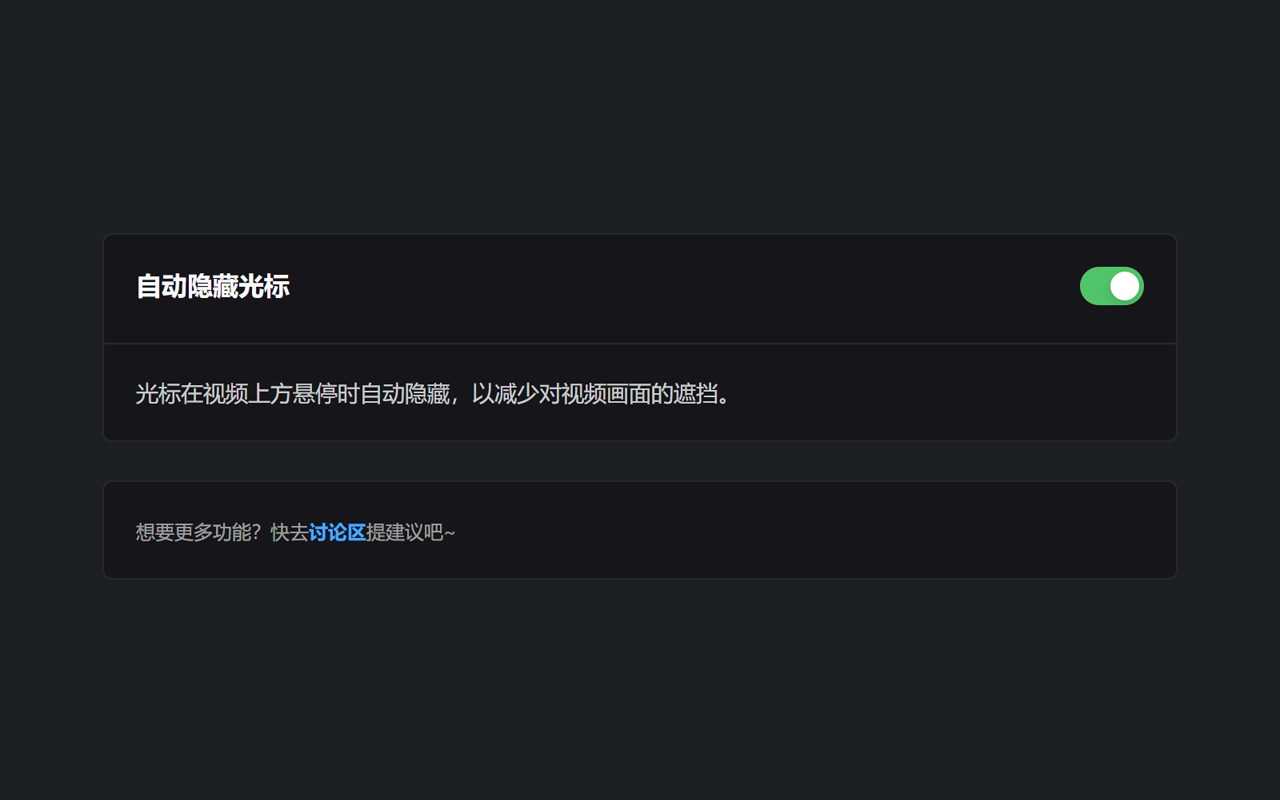
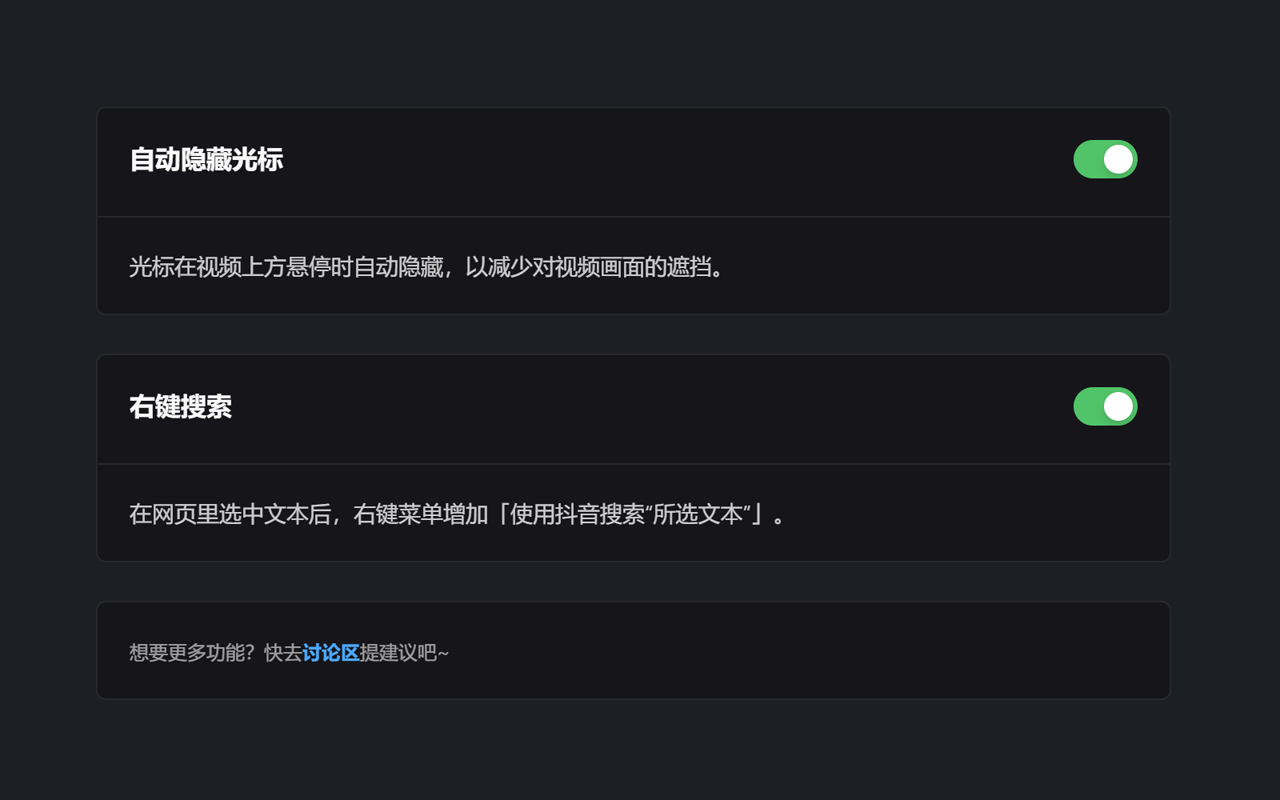
feat: 支持右键搜索

diff --git a/src/base/functions/searchSelection.ts b/src/base/functions/searchSelection.ts
@@ -1,0 +1,73 @@
+import storage from '../storage';
+import config from '../config';
+
+const KEY_ENABLED = 'func:searchSelection:enabled';
+const KEY_OPTIONS = 'func:searchSelection:options';
+
+const MENU_ITEM_ID = 'search';
+
+const BASE_URL = 'https://www.douyin.com/search/';
+
+export async function isEnabled() {
+  return (await storage.get(KEY_ENABLED)) ?? true;
+};
+
+export async function updateStatus(enabled: boolean) {
+  await storage.set(KEY_ENABLED, enabled);
+  await updateContextMenu();
+};
+
+export async function updateContextMenu() {
+  const item: chrome.contextMenus.CreateProperties = {
+    id: MENU_ITEM_ID,
+    title: '使用抖音搜索“%s”',
+    contexts: ['selection'],
+    
+  };
+  chrome.contextMenus?.removeAll?.();
+  if (await isEnabled()) {
+    chrome.contextMenus?.create?.(item);
+  }
+}
+
+export async function onSearchMenuItemClicked(info: chrome.contextMenus.OnClickData) {
+  if (info.menuItemId !== MENU_ITEM_ID) {
+    return;
+  }
+  const query = (info.selectionText || '*').trim().slice(0, 64);
+  const path = encodeURIComponent(query);
+  const url = new URL(`${BASE_URL}${path}`);
+  const options = await getOptions();
+  for (const key in options) {
+    url.searchParams.set(key, options[key]);
+  }
+  chrome.tabs.create({ url: url.toString() });
+}
+
+export async function onTabUpdated(id: number, info: chrome.tabs.TabChangeInfo, tab: chrome.tabs.Tab) {
+  if (!tab.url?.startsWith(BASE_URL)) {
+    return;
+  }
+  const url = new URL(tab.url);
+  await config.prepare();
+  const keys = await config.get<string[]>(['search', 'rememberableOptionKeys']) || [];
+  const options: Record<string, string> = {};
+  for (const key of keys) {
+    const value = url.searchParams.get(key);
+    if (value) {
+      options[key] = value;
+    }
+  }
+  if (!Object.keys(options).length) {
+    return;
+  }
+  await updateOptions(options);
+}
+
+async function getOptions() {
+  return (await storage.get(KEY_OPTIONS)) ?? {};
+}
+
+async function updateOptions(options: Record<string, string>) {
+  await storage.set(KEY_OPTIONS, options);
+}

diff --git a/src/base/functions/remapShortcut.ts b/src/base/functions/remapShortcut.ts
@@ -51,7 +51,7 @@ export async function isEnabled() {
 };
 
 export async function updateStatus(enabled: boolean) {
-  return storage.set(KEY_ENABLED, enabled);
+  await storage.set(KEY_ENABLED, enabled);
 };
 
 export async function getPairs(): Promise<Pair[]> {
@@ -60,7 +60,7 @@ export async function getPairs(): Promise<Pair[]> {
 
 export async function addPair(pair: Pair) {
   const pairs = await getPairs();
-  return storage.set(KEY_PAIRS, deConflic([...pairs, pair]));
+  await storage.set(KEY_PAIRS, deConflic([...pairs, pair]));
 };
 
 export async function updatePair(index: number, pair: Pair) {
@@ -69,12 +69,12 @@ export async function updatePair(index: number, pair: Pair) {
     return;
   }
   pairs[index] = pair;
-  return storage.set(KEY_PAIRS, deConflic(pairs));
+  await storage.set(KEY_PAIRS, deConflic(pairs));
 };
 
 export async function detelePair(index: number) {
   const pairs = await getPairs();
-  return storage.set(KEY_PAIRS, pairs.filter((_, i) => i !== index));
+  await storage.set(KEY_PAIRS, pairs.filter((_, i) => i !== index));
 };
 
 function deConflic(pairs: Pair[]) {

diff --git a/src/options/src/components/FunctionList/index.tsx b/src/options/src/components/FunctionList/index.tsx
@@ -3,6 +3,7 @@ import EnhanceDescription from './cards/EnhanceDescription';
 import ShowPublishTime from './cards/ShowPublishTime';
 import AutoHideCursor from './cards/AutoHideCursor';
 import RemapShortcut from './cards/RemapShortcut';
+import SearchSelection from './cards/SearchSelection';
 import More from './cards/More';
 
 export interface Props {
@@ -18,6 +19,7 @@ export default function FunctionList({ className }: Props) {
         <RemapShortcut />
         <ShowPublishTime />
         <AutoHideCursor />
+        <SearchSelection />
         <More />
       </div>
     </div>

diff --git a/src/options/src/components/FunctionList/cards/SearchSelection.tsx b/src/options/src/components/FunctionList/cards/SearchSelection.tsx
@@ -1,0 +1,19 @@
+import { Card, Switch, Typography } from '@douyinfe/semi-ui';
+
+import useFunc from '../../../hooks/useSearchSelectionFunc';
+
+export default function SearchSelection() {
+  const func = useFunc();
+  return (
+    <Card
+      title="右键搜索"
+      headerExtraContent={
+        <Switch checked={func.isEnabled} onChange={func.updateStatus} />
+      }
+    >
+      <Typography.Text type="secondary">
+        在网页里选中文本后，右键菜单增加「使用抖音搜索“所选文本”」。
+      </Typography.Text>
+    </Card>
+  );
+}

diff --git a/src/background/index.ts b/src/background/index.ts
@@ -1,5 +1,6 @@
 import { updateUserLastActiveTime } from '../base/status';
 import config from '../base/config';
+import * as searchSelection from '../base/functions/searchSelection';
 
 const ALARM_SYNC_CONFIG = 'config:sync';
 
@@ -41,3 +42,7 @@ chrome.runtime.onInstalled.addListener(({ previousVersion, reason }) => {
     chrome.tabs.create({ url });
   }
 });
+
+searchSelection.updateContextMenu();
+chrome.contextMenus.onClicked.addListener(searchSelection.onSearchMenuItemClicked);
+chrome.tabs.onUpdated.addListener(searchSelection.onTabUpdated);

diff --git a/src/options/src/hooks/useSearchSelectionFunc.ts b/src/options/src/hooks/useSearchSelectionFunc.ts
@@ -1,0 +1,21 @@
+import { useState, useEffect } from 'react';
+
+import * as func from '../../../base/functions/searchSelection';
+
+export default function useSearchSelectionFunc() {
+  const [isEnabled, setIsEnabled] = useState(false);
+
+  useEffect(() => {
+    func.isEnabled().then(setIsEnabled);
+  }, []);
+
+  const updateStatus = async (enabled: boolean) => {
+    await func.updateStatus(enabled);
+    setIsEnabled(enabled);
+  };
+
+  return {
+    isEnabled,
+    updateStatus,
+  };
+}

diff --git a/src/base/functions/autoHideCursor.ts b/src/base/functions/autoHideCursor.ts
@@ -7,5 +7,5 @@ export async function isEnabled() {
 };
 
 export async function updateStatus(enabled: boolean) {
-  return storage.set(KEY_ENABLED, enabled);
+  await storage.set(KEY_ENABLED, enabled);
 };

diff --git a/src/base/functions/autoShowComment.ts b/src/base/functions/autoShowComment.ts
@@ -7,5 +7,5 @@ export async function isEnabled() {
 };
 
 export async function updateStatus(enabled: boolean) {
-  return storage.set(KEY_ENABLED, enabled);
+  await storage.set(KEY_ENABLED, enabled);
 };

diff --git a/src/base/functions/enhanceDescription.ts b/src/base/functions/enhanceDescription.ts
@@ -7,5 +7,5 @@ export async function isEnabled() {
 };
 
 export async function updateStatus(enabled: boolean) {
-  return storage.set(KEY_ENABLED, enabled);
+  await storage.set(KEY_ENABLED, enabled);
 };

diff --git a/src/base/functions/showPublishTime.ts b/src/base/functions/showPublishTime.ts
@@ -7,5 +7,5 @@ export async function isEnabled() {
 };
 
 export async function updateStatus(enabled: boolean) {
-  return storage.set(KEY_ENABLED, enabled);
+  await storage.set(KEY_ENABLED, enabled);
 };

diff --git a/README.md b/README.md
@@ -10,7 +10,7 @@
 
 抖音 web 端（[douyin.com](https://douyin.com)）浏览器插件，集成多种实用小功能。这是第三方开源项目，功能会逐步增加，即使暂未满足你的需求，也欢迎安装使用，以随版本更新，第一时间获得新功能以及更好的观看体验。
 
-|      o(\*￣ 3 ￣)o       |         (｡･ω･｡)          |       o(￣ ε ￣\*)       |
+|       (\*￣ 3 ￣)o       |         (｡･ω･｡)          |       o(￣ ε ￣\*)       |
 | :----------------------: | :----------------------: | :----------------------: |
 | ![](assets/images/1.png) | ![](assets/images/2.png) | ![](assets/images/3.png) |
 
@@ -50,6 +50,12 @@
 
 覆盖官方原有的快捷键配置。
 
+### 右键搜索
+
+添加时间：`2022-03-09`
+
+在网页里选中文本后，右键菜单增加「使用抖音搜索“所选文本”」。
+
 ### 更多
 
 前往[讨论区](https://github.com/douyin-helper/douyin-helper/discussions/categories/%E9%9C%80%E6%B1%82%E5%BB%BA%E8%AE%AE)说出你的需求。
@@ -61,6 +67,10 @@
 因为插件版本更新需要经过审核，时长在几小时至数周（3 周之内算正常）不等。为了缩短失效时间，小助手在 `v1.1.1` 版本中引入了配置下发机制，无需等待漫长的审核即可适配网站新版，这在大多数情况下应该能起到作用。
 
 ## 更新日志
+
+[`v2.1.0`](https://github.com/douyin-helper/douyin-helper/releases/tag/v2.1.0) - `2022-03-09`
+
+- 支持右键搜索
 
 [`v2.0.2`](https://github.com/douyin-helper/douyin-helper/releases/tag/v2.0.2) - `2022-03-05`
 
